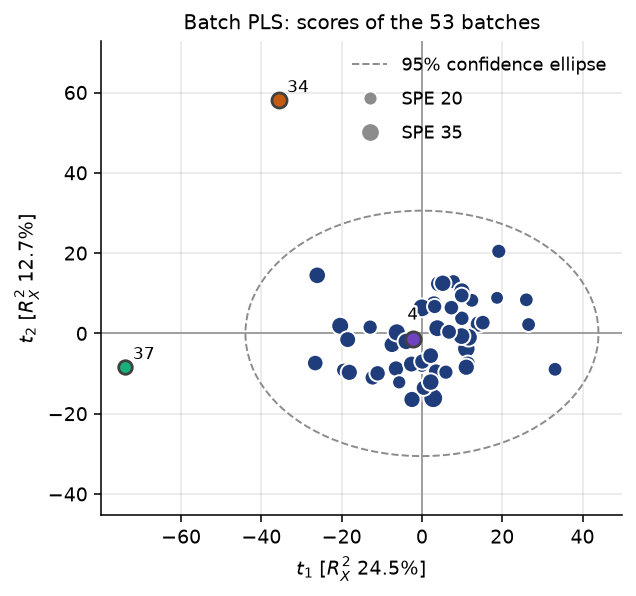
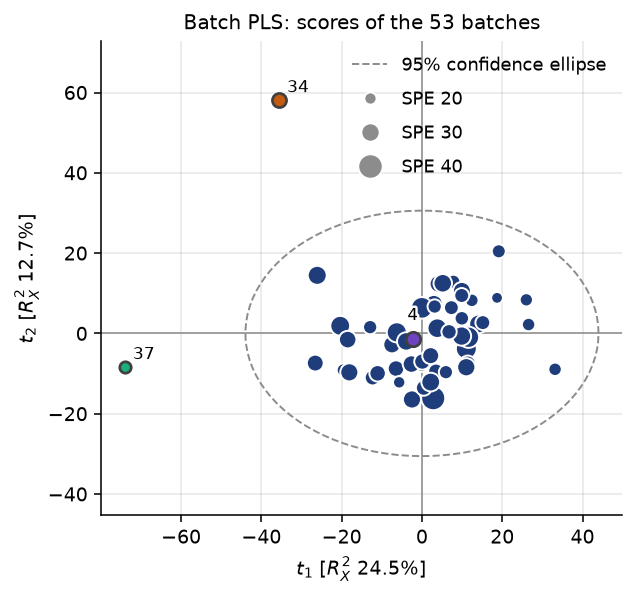
SBR score plot: the marker area is the squared residual, so the sizes read clearly
The batches span a factor of two in SPE, which as an area is a factor of two
and hard to judge across a scatter. The area now carries the square of the SPE,
a factor of four, and the sum of squared residuals is in any case the quantity
that adds up over the cells of a batch.

The legend key stays in the reader's units: `score_plot` takes
`size_of_reference`, which maps a reference value onto whatever scale the area
encodes, so the circle labelled "SPE 20" is the size a batch with an SPE of 20
is drawn. Three circles now, at 20, 30 and 40, spanning the batches.

Claude-Session: https://claude.ai/code/session_01LXthGpHLQFfGubBiKFtGAE

diff --git a/batch/batch_case_common.py b/batch/batch_case_common.py
@@ -17,6 +17,7 @@ and normal-vision separation checks (worst pair 9.4 and 16.1 Delta E).
 from __future__ import annotations
 
 import pathlib
+import typing
 
 import matplotlib as mpl
 
@@ -27,6 +28,9 @@ import pandas as pd
 import matplotlib.patheffects as path_effects
 from matplotlib.figure import Figure
 from matplotlib.lines import Line2D
+
+if typing.TYPE_CHECKING:
+    from collections.abc import Callable
 
 DARK_BLUE = "#1f3d7a"
 ORANGE = "#c55a11"
@@ -184,6 +188,7 @@ def score_plot(
     sizes: pd.Series | None = None,
     size_name: str = "",
     size_reference: tuple[float, ...] = (),
+    size_of_reference: "Callable[[float], float] | None" = None,
     conf_level: float = 0.95,
     title: str = "",
     legend_loc: str = "upper right",
@@ -202,7 +207,10 @@ def score_plot(
 
     ``sizes`` (a Series over the batches, for instance their SPE) makes the marker **area** proportional to
     that quantity, with the median batch drawn at ``BUBBLE``; ``size_name`` and ``size_reference`` then add
-    one legend circle per reference value, without which an area cannot be read off the plot.
+    one legend circle per reference value, without which an area cannot be read off the plot. When ``sizes``
+    is a transform of the quantity the reader thinks in, such as the square of the SPE, ``size_of_reference``
+    maps a reference value back onto the same scale, so that the circle labelled "SPE 20" is the size a batch
+    with an SPE of 20 is drawn.
     """
     if ax is None:
         fig, ax = plt.subplots(figsize=(4.8, 4.4))
@@ -246,8 +254,9 @@ def score_plot(
     if size_reference:
         handles, texts = ax.get_legend_handles_labels()
         for value in size_reference:
+            on_scale = size_of_reference(value) if size_of_reference is not None else value
             handles.append(Line2D([], [], ls="none", marker="o", color=GREY, markeredgecolor="white",
-                                  markersize=(value * BUBBLE / sizes.median()) ** 0.5))
+                                  markersize=(on_scale * BUBBLE / sizes.median()) ** 0.5))
             texts.append(f"{size_name} {value:g}" if size_name else f"{value:g}")
         ax.legend(handles, texts, loc=legend_loc, labelspacing=0.9)
     elif groups is not None:

diff --git a/batch/batch-case-sbr-figures.py b/batch/batch-case-sbr-figures.py
@@ -132,11 +132,14 @@ def main(out_dir: pathlib.Path, data_url: str | None) -> None:
 
     model = BatchPLS(n_components=2).fit(trajectories, quality)
     # Batch 4, the batch nearest the average quality, is marked for the mid-batch prediction figure further on.
-    # The marker area is the batch's SPE, so that the plot shows both ways a batch can be unusual: the two
-    # faulty batches are extreme in the scores and, in the residual, the smallest markers on the plot.
+    # The marker area is the batch's squared residual, so that the plot shows both ways a batch can be
+    # unusual: the two faulty batches are extreme in the scores and, in the residual, the smallest markers
+    # on the plot. SPE squared rather than SPE: the batches span a factor of two in SPE, which is a factor
+    # of four in area, and the sum of squared residuals is the quantity that adds up over the cells anyway.
     fig = score_plot(model, highlight={**HIGHLIGHT, AVERAGE_BATCH: PURPLE}, labels=[*HIGHLIGHT, AVERAGE_BATCH],
-                     label_north=(AVERAGE_BATCH,), sizes=model.spe_.iloc[:, -1], size_name="SPE",
-                     size_reference=(20, 35), title="Batch PLS: scores of the 53 batches")
+                     label_north=(AVERAGE_BATCH,), sizes=model.spe_.iloc[:, -1] ** 2, size_name="SPE",
+                     size_reference=(20, 30, 40), size_of_reference=lambda spe: spe**2,
+                     title="Batch PLS: scores of the 53 batches")
     save(fig, out_dir, "batch-case-sbr-scores")
     save(influence_plot(model, highlight=HIGHLIGHT, labels=[*HIGHLIGHT, *SPE_OUTLIERS], title="Batch PLS: Hotelling's $T^2$ against SPE"), out_dir, "batch-case-sbr-influence")
 
